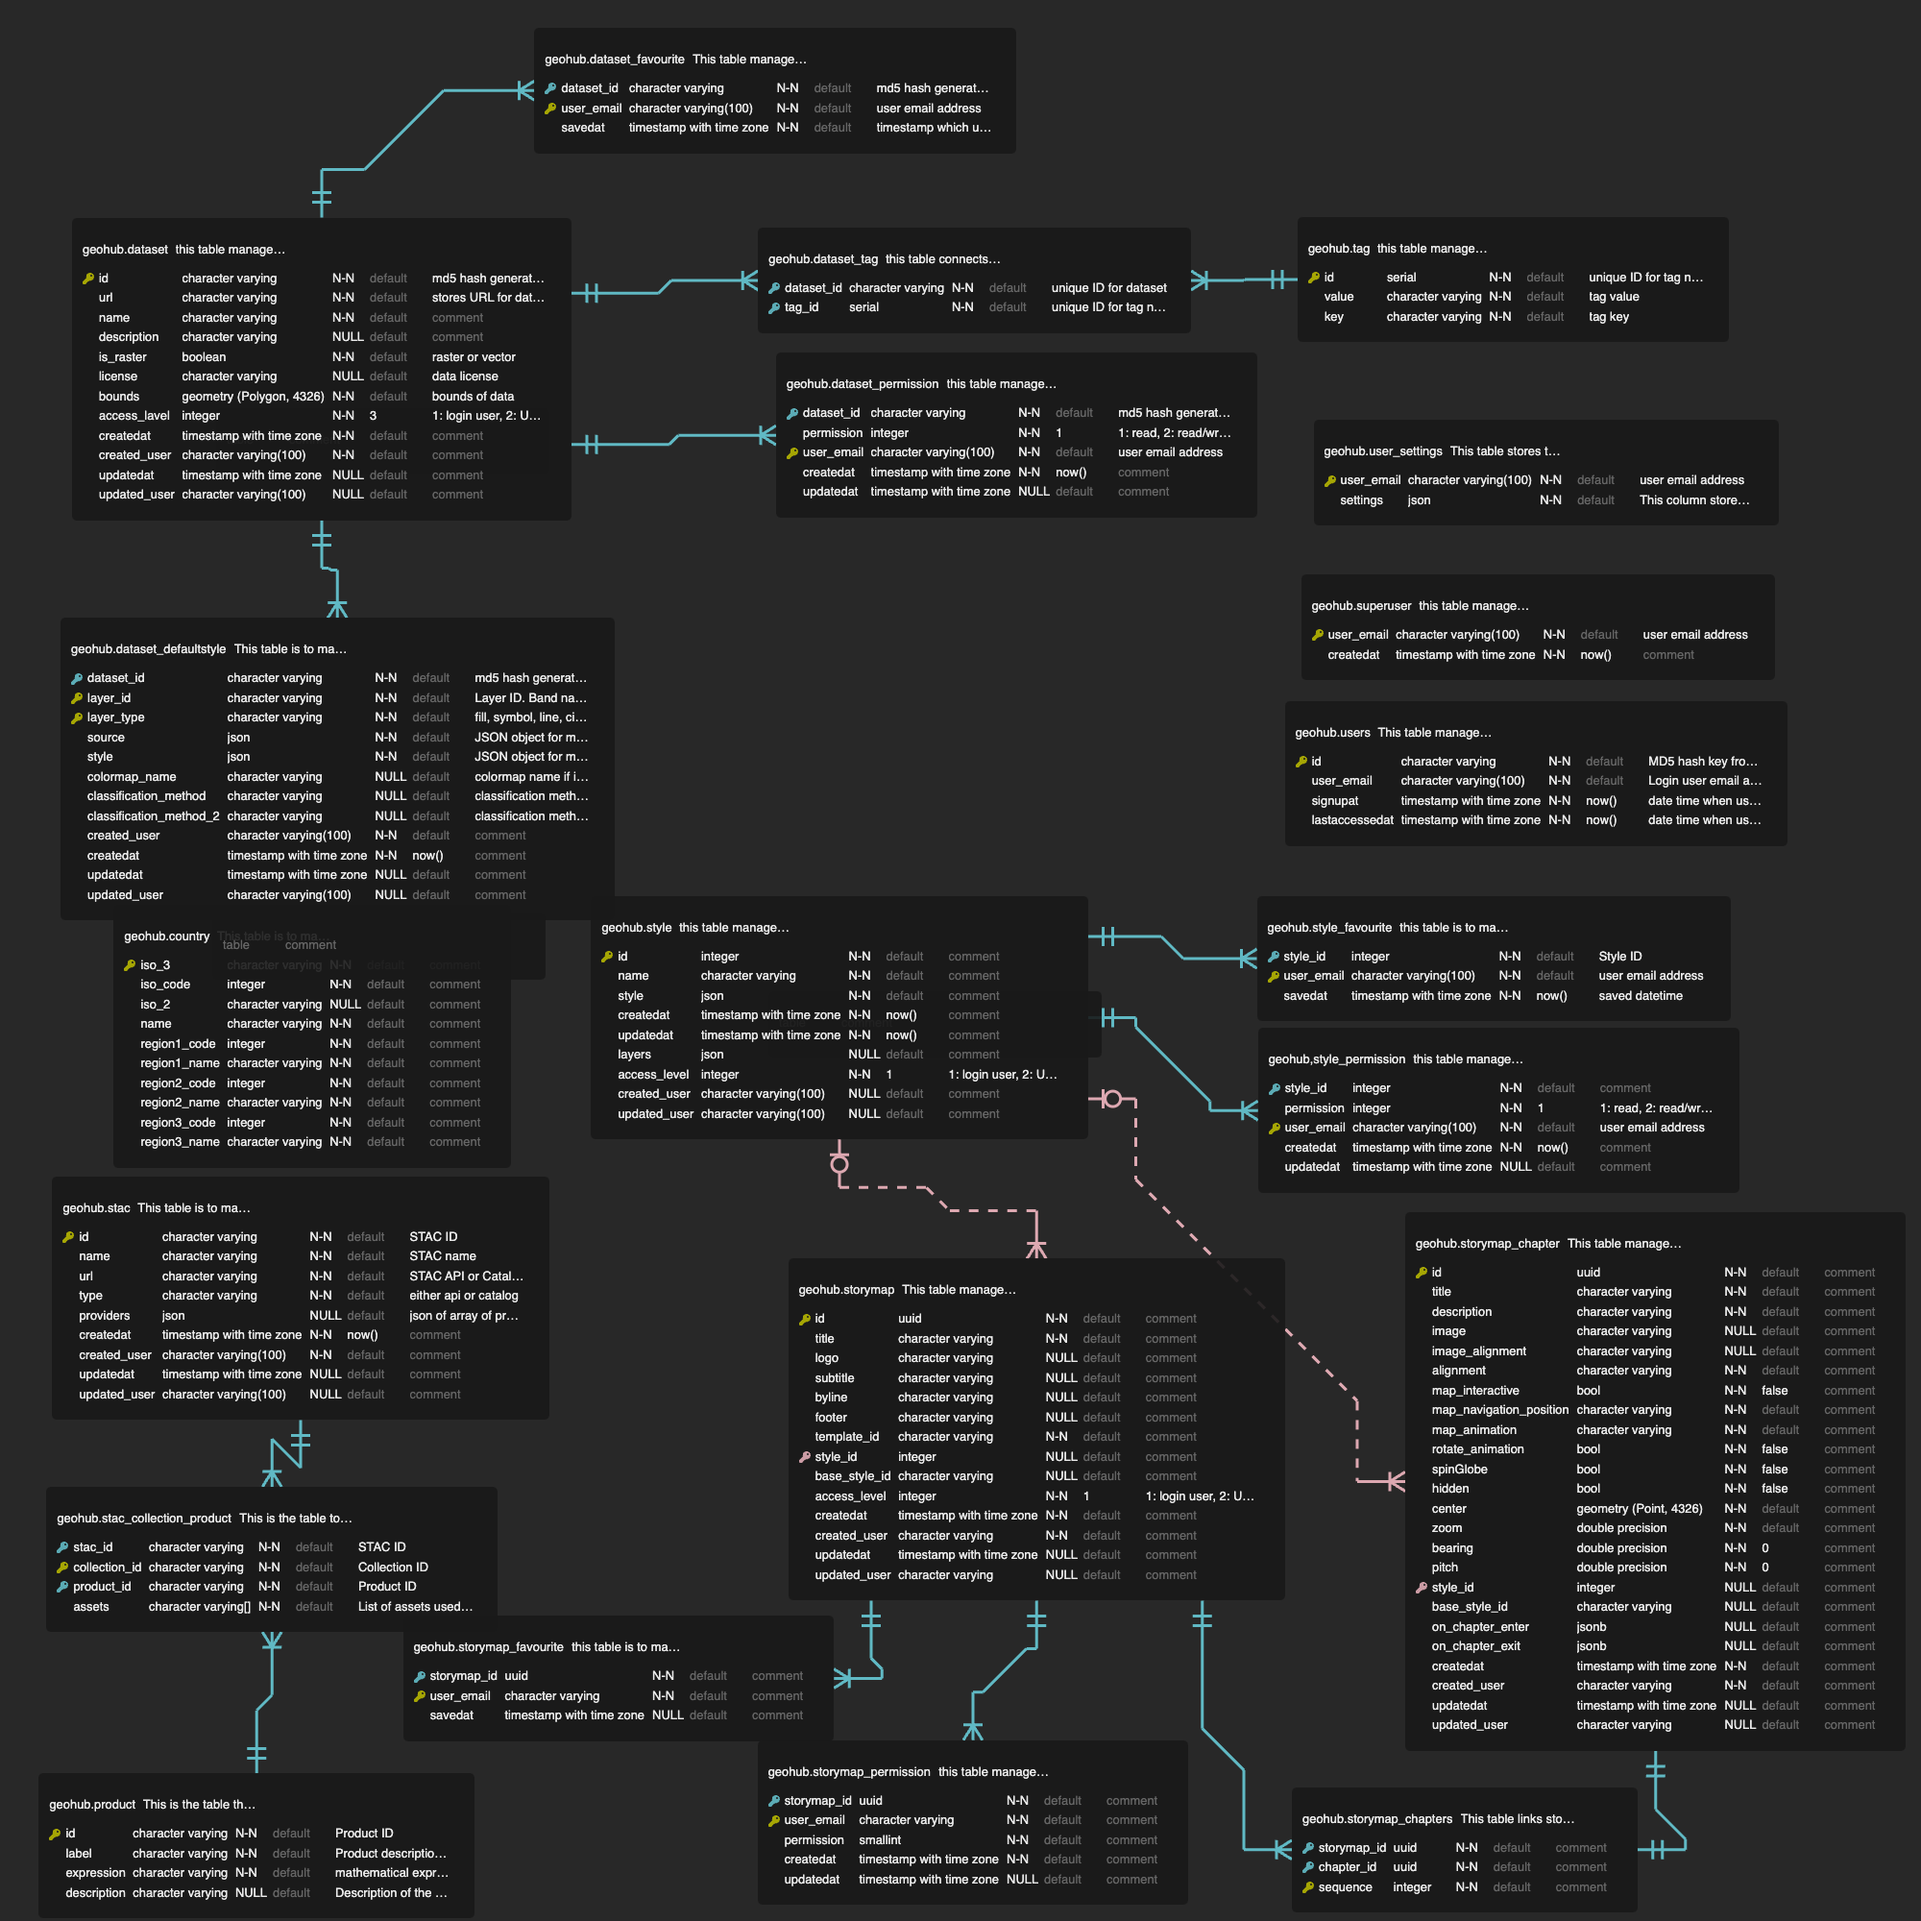
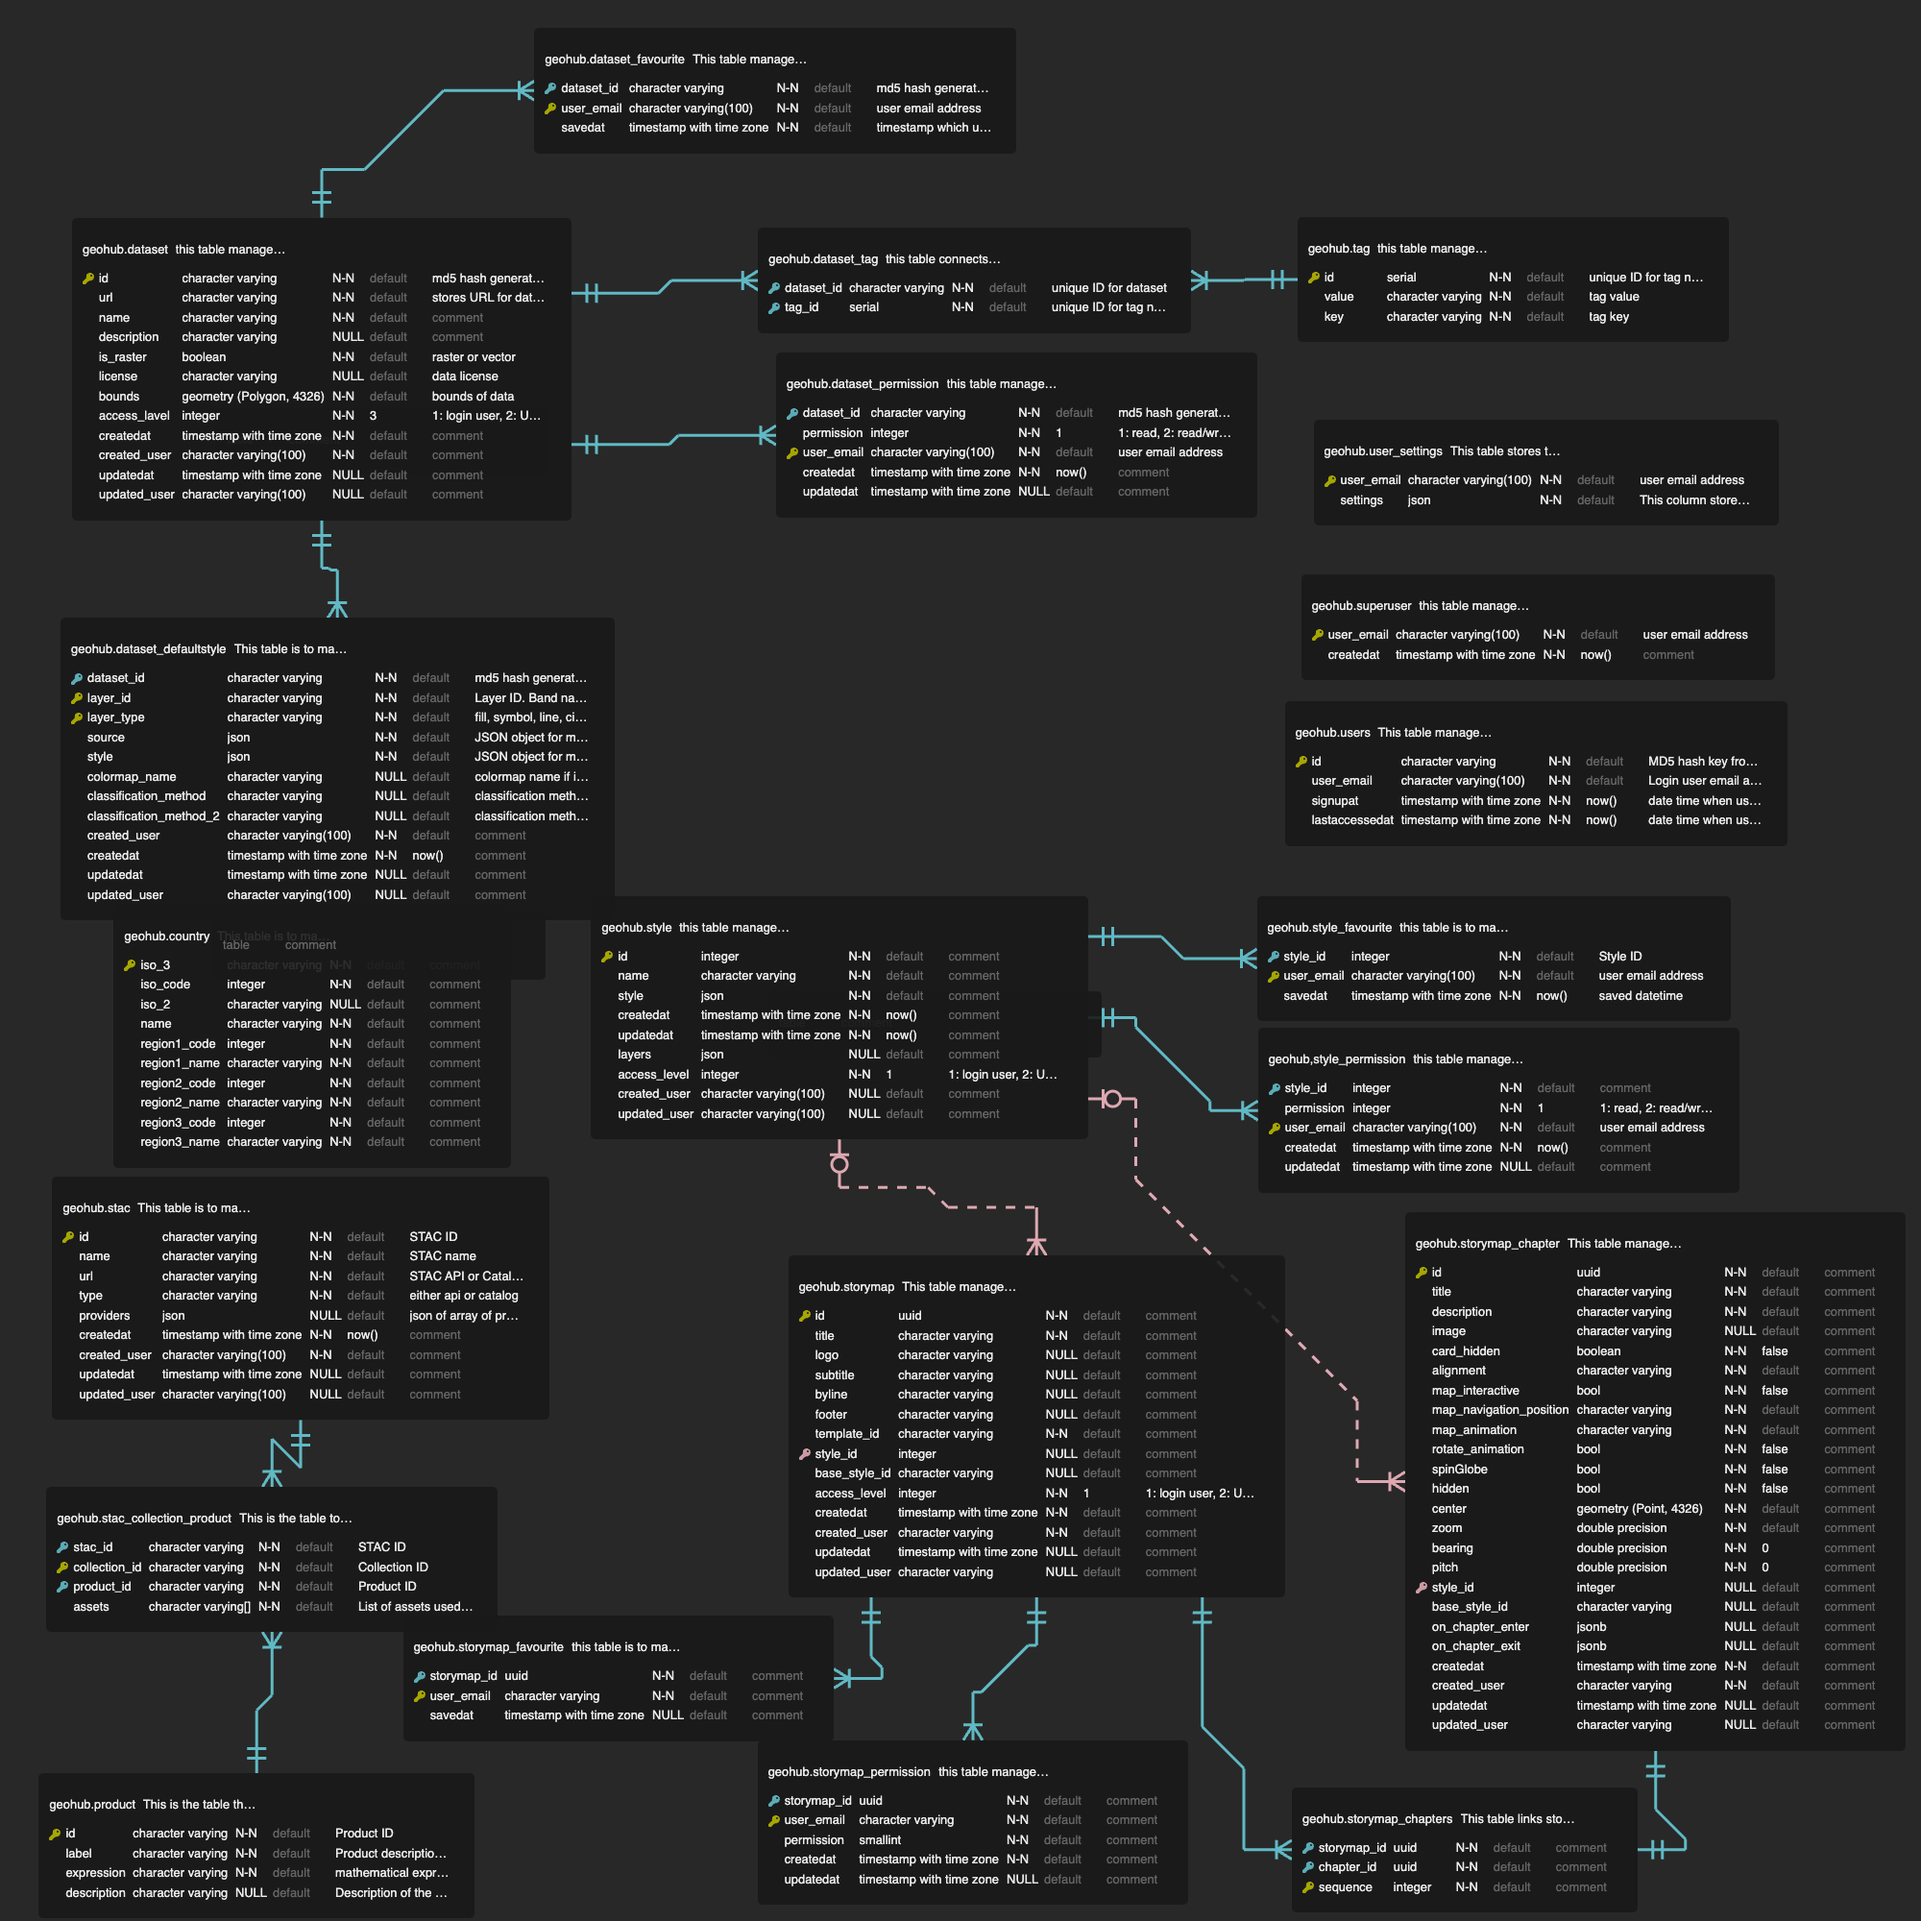
fix: removed image alignment and added card hidden in GUI. set max height for chapter to scroll

Changed region(s): [[0.403, 0.682, 0.62, 0.868], [0.434, 0.651, 0.465, 0.682]]

diff --git a/sites/geohub/src/components/pages/storymap/StorymapChapterEdit.svelte b/sites/geohub/src/components/pages/storymap/StorymapChapterEdit.svelte
@@ -218,28 +218,7 @@
 					</Accordion>
 					<Accordion title="Image" bind:isExpanded={expanded['image']}>
 						<div slot="content">
-							<FieldControl title="Image" showHelp={false}>
-								<div slot="control">
-									<ImageUploader bind:dataUrl={chapter.image} />
-								</div>
-							</FieldControl>
-
-							<FieldControl title="Image alignment" showHelp={false}>
-								<div slot="control">
-									<SegmentButtons
-										size="small"
-										capitalized={true}
-										fontWeight="semibold"
-										buttons={[
-											{ title: 'left', value: 'left', icon: 'fa-solid fa-align-left' },
-											{ title: 'center', value: 'center', icon: 'fa-solid fa-align-center' },
-											{ title: 'right', value: 'right', icon: 'fa-solid fa-align-right' }
-										]}
-										bind:selected={chapter.imageAlignment}
-										on:change={handleChange}
-									/>
-								</div>
-							</FieldControl>
+							<ImageUploader bind:dataUrl={chapter.image} />
 						</div>
 						<div slot="buttons">
 							<Help>Upload an image for the slide</Help>
@@ -263,6 +242,24 @@
 						</div>
 						<div slot="buttons">
 							<Help>Defines where the story text should appear over the map.</Help>
+						</div>
+					</Accordion>
+
+					<Accordion title="Card hidden" bind:isExpanded={expanded['cardHidden']}>
+						<div slot="content">
+							<input
+								id="card-hidden"
+								type="checkbox"
+								class="switch"
+								bind:checked={chapter.cardHidden}
+								on:change={handleChange}
+							/>
+							<label class="pb-1" for="card-hidden">Hide card content</label>
+						</div>
+						<div slot="buttons">
+							<Help>
+								If enable, the visibility of the card content for this chapter is set to hidden.
+							</Help>
 						</div>
 					</Accordion>
 				</div>

diff --git a/sites/geohub/src/lib/server/StorymapManager.ts b/sites/geohub/src/lib/server/StorymapManager.ts
@@ -20,7 +20,6 @@ class StorymapManager {
 		if (!storymap.chapters) storymap.chapters = [];
 		storymap.chapters.forEach((ch) => {
 			if (!ch.id) ch.id = uuidv4();
-			if (!ch.imageAlignment) ch.imageAlignment = 'center';
 			if (!ch.alignment) ch.alignment = 'center';
 			if (ch.hidden === undefined) ch.hidden = false;
 			if (ch.mapInteractive === undefined) ch.mapInteractive = false;
@@ -100,7 +99,7 @@ class StorymapManager {
 					c.title, 
 					c.description,
 					c.image,
-					c.image_alignment as "imageAlignment", 
+					c.card_hidden as "cardHidden", 
 					c.alignment, 
 					c.map_interactive as "mapInteractive", 
 					c.map_navigation_position as "mapNavigationPosition",
@@ -426,7 +425,7 @@ class StorymapManager {
 				title, 
 				description, 
 				image, 
-				image_alignment, 
+				card_hidden, 
 				alignment, 
 				map_interactive, 
 				map_navigation_position, 
@@ -459,7 +458,7 @@ class StorymapManager {
 					chapter.title,
 					chapter.description,
 					chapter.image,
-					chapter.imageAlignment,
+					chapter.cardHidden,
 					chapter.alignment,
 					chapter.mapInteractive,
 					chapter.mapNavigationPosition,

diff --git a/packages/svelte-maplibre-storymap/src/lib/css/dark/chapter.scss b/packages/svelte-maplibre-storymap/src/lib/css/dark/chapter.scss
@@ -7,6 +7,8 @@
 		border-radius: 25px;
 		height: fit-content;
 		min-height: 30vh;
+		max-height: 80%;
+		overflow-y: auto;
 		color: white;
 
 		padding: 25px 50px;

diff --git a/packages/svelte-maplibre-storymap/src/lib/css/light/chapter.scss b/packages/svelte-maplibre-storymap/src/lib/css/light/chapter.scss
@@ -7,7 +7,8 @@
 		border-radius: 25px;
 		height: fit-content;
 		min-height: 30vh;
-
+		max-height: 80%;
+		overflow-y: auto;
 		padding: 25px 50px;
 
 		h3 {
